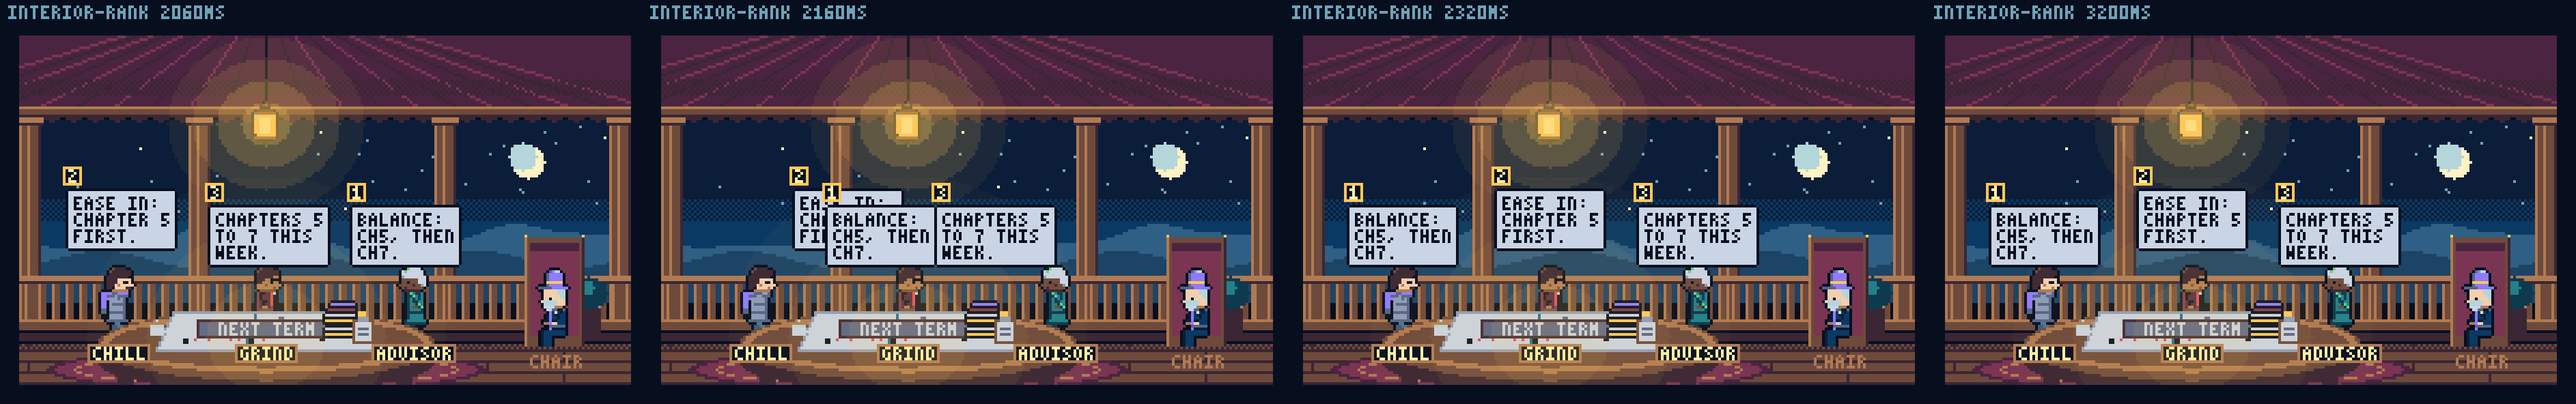
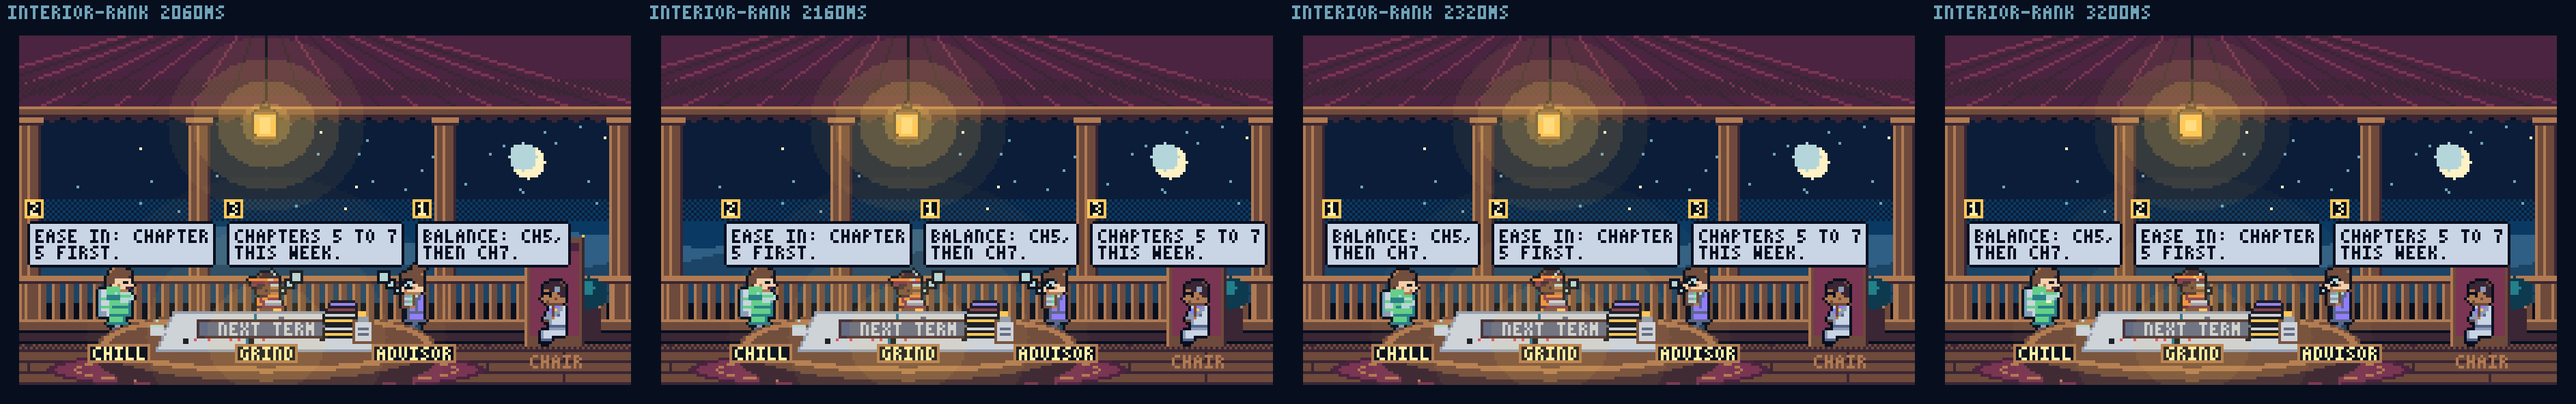
castart: cast-art docs, licence note, contact sheets, shots, prop polish

diff --git a/packages/web/src/overlays/room-info/RoomInfoPanel.tsx b/packages/web/src/overlays/room-info/RoomInfoPanel.tsx
@@ -102,13 +102,21 @@ export function RoomInfoPanel(props: RoomInfoPanelProps) {
                   style={{ '--i': i } as CSSProperties}
                 >
                   {id ? (
-                    <CastAvatar name={id} state={state} size={2} calm={calm} className="rr-who__avatar" />
+                    <CastAvatar
+                      name={id}
+                      state={state}
+                      size={2}
+                      calm={calm}
+                      className="rr-who__avatar"
+                    />
                   ) : (
                     <SpeakerDot who={w.name} />
                   )}
                   <span>
                     <strong>{w.name}</strong>
-                    {id ? <span className="rr-who__state">{CAST_STATE_LABEL[state]}</span> : null}{' '}
+                    {id ? (
+                      <span className="rr-who__state">{CAST_STATE_LABEL[state]}</span>
+                    ) : null}{' '}
                     <span className="rr-dim">{w.does}</span>
                   </span>
                 </li>

diff --git a/packages/web/src/overlays/room-info/RoomLayer.tsx b/packages/web/src/overlays/room-info/RoomLayer.tsx
@@ -81,7 +81,10 @@ export function RoomLayer({ session: given, onRun, calm, infoFor = roomInfo }: R
   useEffect(() => {
     if (!last) return;
     setSpeaking(last.who);
-    const t = setTimeout(() => setSpeaking(null), Math.min(Math.max(last.holdMs || 1500, 1200), 4000));
+    const t = setTimeout(
+      () => setSpeaking(null),
+      Math.min(Math.max(last.holdMs || 1500, 1200), 4000),
+    );
     return () => clearTimeout(t);
   }, [lastId, slot]);
 

diff --git a/packages/web/src/components/cast-avatar/index.ts b/packages/web/src/components/cast-avatar/index.ts
@@ -1,10 +1,4 @@
 export { CastAvatar } from './CastAvatar';
 export type { CastAvatarProps } from './CastAvatar';
-export {
-  BUST_SHEETS,
-  CAST_DISPLAY,
-  CAST_STATE_LABEL,
-  CAST_STATE_ROW,
-  castName,
-} from './busts';
+export { BUST_SHEETS, CAST_DISPLAY, CAST_STATE_LABEL, CAST_STATE_ROW, castName } from './busts';
 export type { CastName, CastState } from './busts';

diff --git a/assets/pixel/composed/scripts/characters_council.py b/assets/pixel/composed/scripts/characters_council.py
@@ -47,16 +47,14 @@ def grind_torso(c, g):
     c.R(cx - 3, top, cx + 2, top, 'glow'); c.R(cx - 3, g['hip'] - 3, cx + 2, g['hip'] - 3, 'roof-shade')
 def grind_front(c, g):
     cx, hip, f = g['cx'], g['hip'], g['pose'].get('f', 0)
-    b = 1 if f % 4 == 1 else 0
-    x0, x1 = cx - 1, cx + 6
-    c.R(x0, hip - 3 - b, x1, hip - 1 - b, 'roof-wine'); c.R(x0 + 1, hip - 2 - b, x1 - 1, hip - 2 - b, 'glow')
-    c.R(x0 + 1, hip - 5 - b, x1 - 1, hip - 4 - b, 'wall-lit'); c.R(x0 + 1, hip - 4 - b, x1 - 1, hip - 4 - b, 'wall-mid')
-    c.R(x0 + 2, hip - 7 - b, x1 - 2, hip - 6 - b, 'ember'); c.R(x0 + 2, hip - 6 - b, x1 - 2, hip - 6 - b, 'roof-wine')
-    # coffee cup on top
-    cxx = x0 + 3
-    c.R(cxx, hip - 11 - b, cxx + 2, hip - 8 - b, 'wood-lit'); c.R(cxx, hip - 11 - b, cxx + 2, hip - 11 - b, 'cloud-hi'); c.P(cxx + 3, hip - 10 - b, 'wood-lit')
-    c.R(cxx, hip - 9 - b, cxx + 2, hip - 9 - b, 'wood')
-    steam(c, cxx, hip - 13 - b, f)
+    b = 1 if f % 4 == 1 else 0                                               # stack hops on frame 1
+    c.R(cx - 1, hip - 3 - b, cx + 9, hip - 1 - b, 'roof-wine'); c.R(cx, hip - 2 - b, cx + 8, hip - 2 - b, 'glow')
+    c.R(cx, hip - 5 - b, cx + 8, hip - 4 - b, 'wall-lit'); c.R(cx, hip - 4 - b, cx + 8, hip - 4 - b, 'wall-mid')
+    c.R(cx + 3, hip - 7 - b, cx + 9, hip - 6 - b, 'ember'); c.R(cx + 3, hip - 6 - b, cx + 9, hip - 6 - b, 'roof-wine')
+    k = cx + 6                                                               # coffee cup on top, out past the face
+    c.R(k, hip - 11 - b, k + 2, hip - 8 - b, 'cloud-hi'); c.R(k, hip - 10 - b, k + 2, hip - 10 - b, 'wood-lit'); c.R(k, hip - 9 - b, k + 2, hip - 8 - b, 'wood-lit')
+    c.P(k + 3, hip - 10 - b, 'cloud-hi'); c.P(k + 3, hip - 9 - b, 'cloud-hi')
+    steam(c, k, hip - 13 - b, f)
 
 # ---------------- Advisor: glasses, clipboard checklist
 def adv_head(c, g):
@@ -82,12 +80,11 @@ def chair_torso(c, g):
     c.R(fx - 1, top, fx, top + 1, 'cloud-hi'); c.P(fx, top + 2, 'violet'); c.P(fx, top + 3, 'violet')
     c.R(cx - 3, hip - 2, cx + 2, hip - 2, 'wall-shade')
 def chair_hand(c, g):
-    x, y = g['hand']; up = g['pose'].get('f', 0) % 2 == 0 and g['pose'].get('strike')
-    c.R(x, y - 4, x, y, 'wood'); c.R(x - 1, y - 6, x + 2, y - 4, 'wood-lit'); c.R(x - 1, y - 4, x + 2, y - 4, 'wood'); c.P(x - 1, y - 6, 'wood-dark') if False else None
+    x, y = g['hand']
+    c.R(x, y - 5, x + 1, y, 'wood'); c.R(x - 2, y - 8, x + 3, y - 5, 'wood-lit'); c.R(x - 2, y - 5, x + 3, y - 5, 'wood'); c.R(x + 3, y - 8, x + 3, y - 5, 'wood-dark'); c.R(x - 2, y - 8, x, y - 8, 'glow')
 def chair_head(c, g):
     hx, hy = g['hx'], g['hy']
-    for x in range(3, 7): c.P(hx + x, hy + 1, 'wall-mid') if False else None
-    c.R(hx + 2, hy + 1, hx + 3, hy + 2, 'wall-mid')                           # silver temple
+    pass
 
 def specs():
     return {
@@ -100,9 +97,9 @@ def specs():
      'cast-advisor': dict(LL=8, TH=9, TW=6, SK=3, flare=1, skin=SK_LT, hair_style='bun', hair=hair('wood', 'wood-dark', 'wood-lit'),
         coat=('violet', 'wall-shade', 'cloud-hi'), hem='wall-shade', pants=('wall-shade', 'hill-near'), boots='wood-dark', boots_sh='ink', eye='dot', blink=True,
         armN_fixed=(3, 3), acc=dict(torso=adv_torso, head=adv_head, hand=adv_hand)),
-     'cast-chair': dict(LL=8, TH=10, TW=6, SK=4, flare=2, seam=True, skin=SK_MD, hair_style='slick', hair=hair('wood-dark', 'ink', 'wood'),
+     'cast-chair': dict(LL=8, TH=10, TW=6, SK=4, flare=2, seam=True, skin=SK_MD, hair_style='slick', hair=hair('wood-dark', 'ink', 'wall-mid'),
         coat=('wall-lit', 'wall-mid', 'cloud-hi'), hem='wall-shade', pants=('sky-deep', 'ink'), boots='ink', boots_sh='ink', eye='dot', brow='stern', blink=True,
-        armN_fixed=(3, 3), acc=dict(torso=chair_torso, head=chair_head, hand=chair_hand)),
+        armN_fixed=(5, 2), acc=dict(torso=chair_torso, head=chair_head, hand=chair_hand)),
     }
 
 def council_poses(S):

diff --git a/assets/pixel/composed/scripts/council_contact.py b/assets/pixel/composed/scripts/council_contact.py
@@ -1,0 +1,41 @@
+#!/usr/bin/env python3
+"""Contact sheets of every council-cast frame (reads the generated strips). Run after make_characters.py.
+Writes docs/design/shots/castart/contact-bodies.png and contact-busts.png (4x, nearest)."""
+import os, sys
+HERE = os.path.dirname(os.path.abspath(__file__)); sys.path.insert(0, HERE)
+from PIL import Image, ImageDraw
+from palette import RGB
+from characters_council import IDS, NAMES
+ROOT = os.path.abspath(os.path.join(HERE, '..'))
+OUT = os.path.abspath(os.path.join(HERE, '../../../../docs/design/shots/castart'))
+S = 4; os.makedirs(OUT, exist_ok=True)
+BG = RGB['sky-deep'] + (255,); INK = RGB['cloud-hi']
+ANIMS = ('idle', 'talk', 'think', 'walk', 'sit', 'wave')
+def strips(n):
+    return {a: Image.open(os.path.join(ROOT, 'characters', n, a + '.png')) for a in ANIMS}
+def bodies():
+    cols = 4 + 4 + 4 + 4 + 2 + 2
+    im = Image.new('RGBA', (cols * 32 * S + 110, len(IDS) * (32 * S + 20) + 24), BG); d = ImageDraw.Draw(im)
+    x0 = 100
+    for a_i, a in enumerate(ANIMS):
+        pass
+    for r, n in enumerate(IDS):
+        y = 22 + r * (32 * S + 20); d.text((6, y + 60), NAMES[n], fill=INK); x = x0
+        for a in ANIMS:
+            st = strips(n)[a]
+            if r == 0: d.text((x, 4), a, fill=INK)
+            for i in range(st.width // 32):
+                im.alpha_composite(st.crop((i * 32, 0, i * 32 + 32, 32)).resize((32 * S, 32 * S), 0), (x, y)); x += 32 * S
+            x += 0
+    im.save(os.path.join(OUT, 'contact-bodies.png'))
+def busts():
+    im = Image.new('RGBA', (12 * 32 * S + 110, len(IDS) * (32 * S + 8) + 24), BG); d = ImageDraw.Draw(im)
+    for r, n in enumerate(IDS):
+        y = 22 + r * (32 * S + 8); d.text((6, y + 60), NAMES[n], fill=INK)
+        b = Image.open(os.path.join(ROOT, 'characters', n, 'bust.png'))
+        for k in range(3):
+            if r == 0: d.text((100 + k * 4 * 32 * S, 4), ('idle', 'talk', 'think')[k], fill=INK)
+            for i in range(4):
+                im.alpha_composite(b.crop((i * 32, k * 32, i * 32 + 32, k * 32 + 32)).resize((32 * S, 32 * S), 0), (100 + (k * 4 + i) * 32 * S, y))
+    im.save(os.path.join(OUT, 'contact-busts.png'))
+if __name__ == '__main__': bodies(); busts(); print('ok', OUT)

diff --git a/docs/cast-art.md b/docs/cast-art.md
@@ -1,0 +1,47 @@
+# Council cast art
+
+Four original pixel characters for the Round Table: **Chill** (green hoodie, blanket, tea mug, moon charm), **Grind** (orange headband, stack of books, coffee),
+**Advisor** (purple, glasses, clipboard checklist), **Chairman** (pale grey-blue coat, violet crest, gavel). Same 28-colour palette, 32x32 right-facing cell,
+1px ink outline as the rest of the composed cast.
+
+## Where things live
+
+| What | Path |
+| --- | --- |
+| Generator (deterministic, no randomness) | `assets/pixel/composed/scripts/characters_council.py`, run by `make_characters.py` |
+| Atlas (Phaser, frames `cast-chill/idle/0` ...) | `assets/pixel/composed/characters/atlas.png` + `atlas.json` |
+| Per-character strips and busts | `assets/pixel/composed/characters/cast-*/{idle,talk,think,walk,sit,wave}.png`, `bust.png` (128x96), `portrait.png` |
+| Manifest | `assets/asset-manifest.json` (`persona.cast-*`, loaded through `atlas.characters`); built by `build_manifest.py` |
+| Contact sheets | `docs/design/shots/castart/` (`python3 assets/pixel/composed/scripts/council_contact.py`) |
+| Round Table scene | `packages/village/src/scenes/landmarks/round-table/interior.ts` (chill/grind/advisor map to `cast-*`, chair to `cast-chair`) |
+| Web component | `packages/web/src/components/cast-avatar/` |
+
+Regenerate: `python3 assets/pixel/composed/scripts/make_characters.py && python3 assets/pixel/composed/scripts/build_manifest.py`.
+Frames per anim: idle 4 (breath + blink), talk 4, think 4 (thought dots 1, 2, 3, 2), walk 4 (side view, flip for left, like the rest of the cast), sit 2, wave 2.
+Idle, talk and think play at 5 fps, walk at 8 fps. The existing cast has side-view walks only, so there is no 4-direction walk set.
+`assets/sprites/cast.json` is the vendor-derived atlas built by `packages/media`; the council cast is not in it, it lives in the composed atlas above.
+
+## `<CastAvatar />`
+
+```tsx
+import { CastAvatar, CAST_STATE_LABEL } from '../components/cast-avatar';
+<CastAvatar name="chill" state="idle" size={2} />
+```
+
+| Prop | Type | Notes |
+| --- | --- | --- |
+| `name` | `'chill' \| 'grind' \| 'advisor' \| 'chair'` (also `'Chairman'`, any case) | unknown names render nothing |
+| `state` | `'idle' \| 'talk' \| 'think'` | default `idle`; `talk` while that member speaks |
+| `size` | integer 1 to 6 | scale of the 32px bust, default 2 (64px); rounded, so always integer |
+| `calm` | boolean | static first frame. `prefers-reduced-motion` and `:root[data-calm='true']` do this in CSS too |
+| `outline` | boolean | default true: 2px state outline (idle `--state-idle`, talk `--state-studying`, think `--sq-violet`) |
+
+It is a `role="img"` with `aria-label="Chill, listening"`. Colour is never the only signal: show `CAST_STATE_LABEL[state]` (Listening / Speaking / Thinking) as text next to it,
+as the help panel does. Rendering is `image-rendering: pixelated`, frames step with `steps(4)` on `background-position`, nothing else animates.
+Adopters: Agent Inspector, chat cards, council verdict card (not wired by this change).
+
+## Help panel behaviour
+
+Rows enter with a 40 ms stagger, 160 ms, `cubic-bezier(0.23, 1, 0.32, 1)`, transform + opacity. Hover (only `(hover: hover) and (pointer: fine)`) switches that avatar to its talking loop and
+nudges it 1px over 125 ms ease. `RoomInfoPanel` takes `speaking` (set by `RoomLayer` from the live transcript) so the speaking member's avatar plays its talking loop.
+Reduced motion and Calm: static first frame, opacity-only entrance.

diff --git a/assets/pixel/LICENSES.md b/assets/pixel/LICENSES.md
@@ -29,3 +29,9 @@ Rejected: Tiny RPG Character Pack (Zerie) and Citizens 1 (Ulerinn, CC0 but "do n
 | backgrounds/generated-village (day/night parallax, 12 layers each) | Generated by us with Pillow (script written in this session) | Original work, dedicated CC0 | none |
 
 Pixel scales (not unified at source): Ninja Adventure and Kenney Tiny Town/Roguelike = 16px; Autumn Town = 32px grid (use 16px sets at 2x to match); village-buildings-oga = 64px sprites; generated-village = 320x180 canvas.
+
+## Council cast (Chill, Grind, Advisor, Chairman)
+
+`cast-chill`, `cast-grind`, `cast-advisor` and `cast-chair` (assets/pixel/composed/characters/cast-*) are original art generated by the repo script
+`assets/pixel/composed/scripts/characters_council.py` (run through `make_characters.py`), palette-only, no third-party pixels, nothing from the
+Modern Interiors pack.
